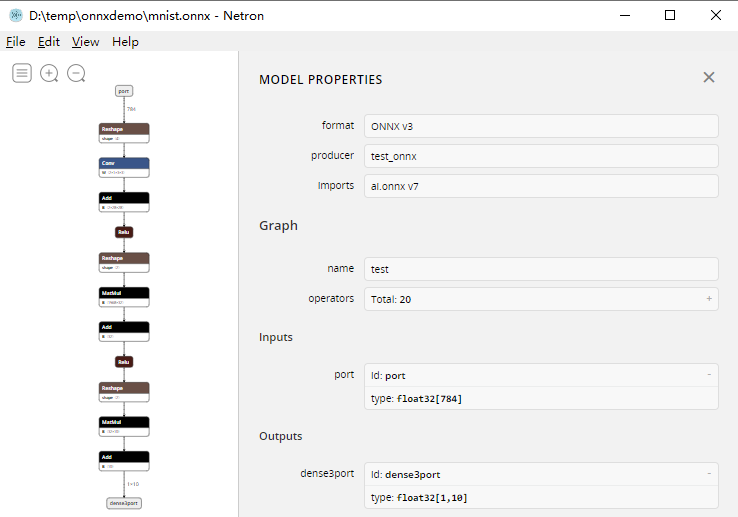
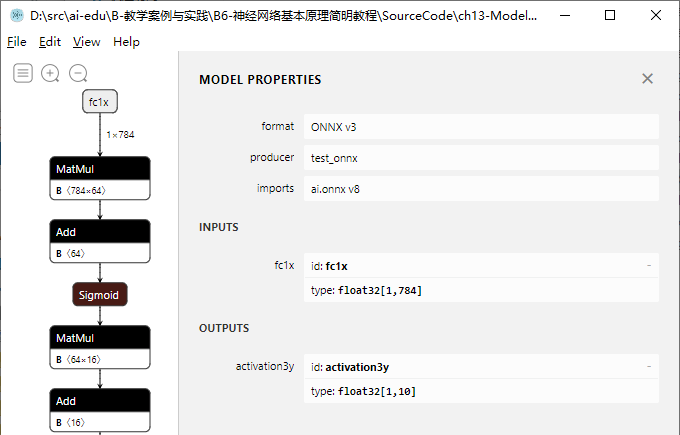
update

diff --git a/B-教学案例与实践/B6-神经网络基本原理简明教程/SourceCode/ch13-ModelInference/WPF/OnnxDemo/MainWindow.xaml.cs b/B-教学案例与实践/B6-神经网络基本原理简明教程/SourceCode/ch13-ModelInference/WPF/OnnxDemo/MainWindow.xaml.cs
@@ -114,7 +114,7 @@ namespace OnnxDemo
                 // 支持多个输入，对于mnist模型，只需要一个输入
                 var container = new List<NamedOnnxValue>();
 
-                // 输入是大小784的一维数组
+                // 输入是大小1*784的一维数组
                 var tensor = new DenseTensor<float>(inputData, new int[] { 1, 784 });
 
                 // 输入的名称是port

diff --git a/B-教学案例与实践/B6-神经网络基本原理简明教程/Step6 - Model Inference/13.1-Windows模型的部署.md b/B-教学案例与实践/B6-神经网络基本原理简明教程/Step6 - Model Inference/13.1-Windows模型的部署.md
@@ -217,17 +217,11 @@ private async void RecogNumberFromInk()
 <img src="../Images/13/addref1.png" ch="500" />
 
 
-在打开的NuGet包管理器中，切换到浏览选项卡，搜索`onnxruntime`，找到`Microsoft.ML.OnnxRuntime`包，当前版本是0.1.5，点击安装，稍等片刻，按提示即可完成安装。
-
-<img src="../Images/13/addref2.png" />
-
-当前NuGet发布的OnnxRuntime库只包含了x64架构的运行库，所以需要将项目的目标架构改为x64。
-
-在解决方案上点右键，选择配置管理器。
+在打开的NuGet包管理器中，切换到浏览选项卡，搜索`onnxruntime`，找到`Microsoft.ML.OnnxRuntime`包，当前版本是1.0.0，点击安装，按提示完成安装即可。该版本不支持AnyCPU平台，所以需要将项目的目标架构显式的改为x64或x86。在解决方案上点右键，选择配置管理器。
 
 <img src="../Images/13/changetarget1.png" />
 
-在配置管理器对话框中，将活动解决方案平台切换为x64。如果没有x64，在下拉框中选择新建，按提示新建x64平台。
+在配置管理器对话框中，将活动解决方案平台切换为x64或x86。如果没有x64和x86，在下拉框中选择新建，按提示新建x64或x86平台。
 
 <img src="../Images/13/changetarget2.png" ch="500" />
 
@@ -297,7 +291,7 @@ private void BtnClean_Click(object sender, RoutedEventArgs e)
 
 ### 画布数据预处理
 
-按照前面的介绍使用`Netron`打开mnist模型可以看到，输入`port`是一个大小784的float数组，对应的是28\*28大小图片的每个像素点的色值，输出`dense3port`是1\*10的float数组，分别代表识别为数字0-9的得分，值最大的即为识别结果。
+按照前面的介绍使用`Netron`打开mnist模型可以看到，输入`fc1x`是一个大小为1\*784的float数组，对应的是28\*28大小图片的每个像素点的色值，输出`activation3y`是1\*10的float数组，分别代表识别为数字0-9的得分，值最大的即为识别结果。
 
 <img src="../Images/13/modeldetail.png" ch="500" />
 
@@ -363,11 +357,11 @@ private void RecogNumberFromInk()
         // 支持多个输入，对于mnist模型，只需要一个输入
         var container = new List<NamedOnnxValue>();
 
-        // 输入是大小784的一维数组
-        var tensor = new DenseTensor<float>(inputData, new int[] { 784 });
+        // 输入是大小1*784的一维数组
+        var tensor = new DenseTensor<float>(inputData, new int[] { 1, 784 });
 
         // 输入的名称是port
-        container.Add(NamedOnnxValue.CreateFromTensor<float>("port", tensor));
+        container.Add(NamedOnnxValue.CreateFromTensor<float>("fc1x", tensor));
 
         // 推理
         var results = session.Run(container);
@@ -385,16 +379,6 @@ private void RecogNumberFromInk()
 ```
 
 至此，所有的代码就完成了，按`F5`即可开始调试运行。
-
-### 添加缺失的库
-
-当前0.1.5版本的OnnxRuntime库存在个小问题，编译的时候有几个库文件没有复制到执行目录下，运行时会出现如下错误：
-
-<img src="../Images/13/error.png" />
-
-此时需要手动将对应的库文件复制过去。这几个文件在NuGet包目录下，打开解决方案资源管理器，展开引用，在`Microsoft.ML.OnnxRuntime`上点右键，属性，找到`路径`属性，打开对应的文件夹，向上找到`Microsoft.ML.OnnxRuntime.0.1.5`目录，打开`runtimes\win10-x64\native`目录，将`mkldnn.dll`和`onnxruntime.dll`复制到程序运行目录即可。
-
-<img src="../Images/13/dll.png" />
 
 ### 结果展示
 

diff --git a/B-教学案例与实践/B6-神经网络基本原理简明教程/Step6 - Model Inference/13.0-神经网络模型概述.md b/B-教学案例与实践/B6-神经网络基本原理简明教程/Step6 - Model Inference/13.0-神经网络模型概述.md
@@ -149,12 +149,12 @@ def main():
         # initialize all variables
         tf.global_variables_initializer().run()
         # save the model in the file path
-        saver.save(sess, './model')
+        saver.save(sess, './tfmodel')
 ```
 
 在上面这份代码中，我们生成了一个输入大小是8\*32\*32\*3，输出尺寸是8\*32\*32\*8，卷积核大小是5\*5，输入通道数是3，输出通道数是8的只有一个卷积层的神经网络。我们甚至没有给这个神经网络进行训练，就直接进行了保存。这样一个神经网络模型文件里是一个什么样的结构呢？是像一般的程序一样，编译完了程度就被转化成了一堆逻辑指令呢？还是继续维持着这样一个模型文件的结构呢？
 
-在运行完上面的代码后，在当前路径下应该多了四个文件，checkpoint，model.index， model.meta， model.data-00000-of-00001，如果没有的话请重新运行文件生成这样的文件。这样四个文件里面保存了什么呢？按照官方文档的解释，meta文件保存了序列化后的计算图，index文件则保存了数据文件的索引，包括变量名等等，data文件是保存了类似于变量值这样的数据的文件，checkpoint记录了最新的模型文件的名称或者序号。什么是计算图呢？直接用图形来做说明吧，
+在运行完上面的代码后，在当前路径下应该多了四个文件，checkpoint，tfmodel.index， tfmodel.meta， tfmodel.data-00000-of-00001，如果没有的话请重新运行文件生成这样的文件。这样四个文件里面保存了什么呢？按照官方文档的解释，meta文件保存了序列化后的计算图，index文件则保存了数据文件的索引，包括变量名等等，data文件是保存了类似于变量值这样的数据的文件，checkpoint记录了最新的模型文件的名称或者序号。什么是计算图呢？直接用图形来做说明吧，
 
 <img src="../Images/13/graph.png" width="500" />
 
@@ -241,7 +241,7 @@ conv1_weights = tf.Variable(
 
 <img src="../Images/13/saveRestore.PNG" width="500" />
 
-我们之前说，在index文件中保存的是数据文件的索引，是一张表，这样的表里存放了什么呢？从这张计算图中看，在saveV2这样一个结点中，保存了变量的名称，由这个模型的名字，也就是在这份代码中的函数名称"model"加上变量自己的名称构成一个全局的变量名，保证不会出现重复的tensor名称。之后会存储的是这个tensor的大小，也就是shape_and_slices这个域中的内容，再之后保存的就会是这个tensor本身的值。
+我们之前说，在index文件中保存的是数据文件的索引，是一张表，这样的表里存放了什么呢？从这张计算图中看，在saveV2这样一个结点中，保存了变量的名称，由这个模型的名字，也就是在这份代码中的函数名称"tfmodel"加上变量自己的名称构成一个全局的变量名，保证不会出现重复的tensor名称。之后会存储的是这个tensor的大小，也就是shape_and_slices这个域中的内容，再之后保存的就会是这个tensor本身的值。
 
 restore的过程是一个逆过程。程序会根据tensor的名称和对应的尺寸，从存下的文件中读取对应的tensor的值，经过一个赋值的assign结点，将保存下来的具体数值再重新放入对应的变量中，在目前这个例子中，也就是卷积核这个变量中。
 
